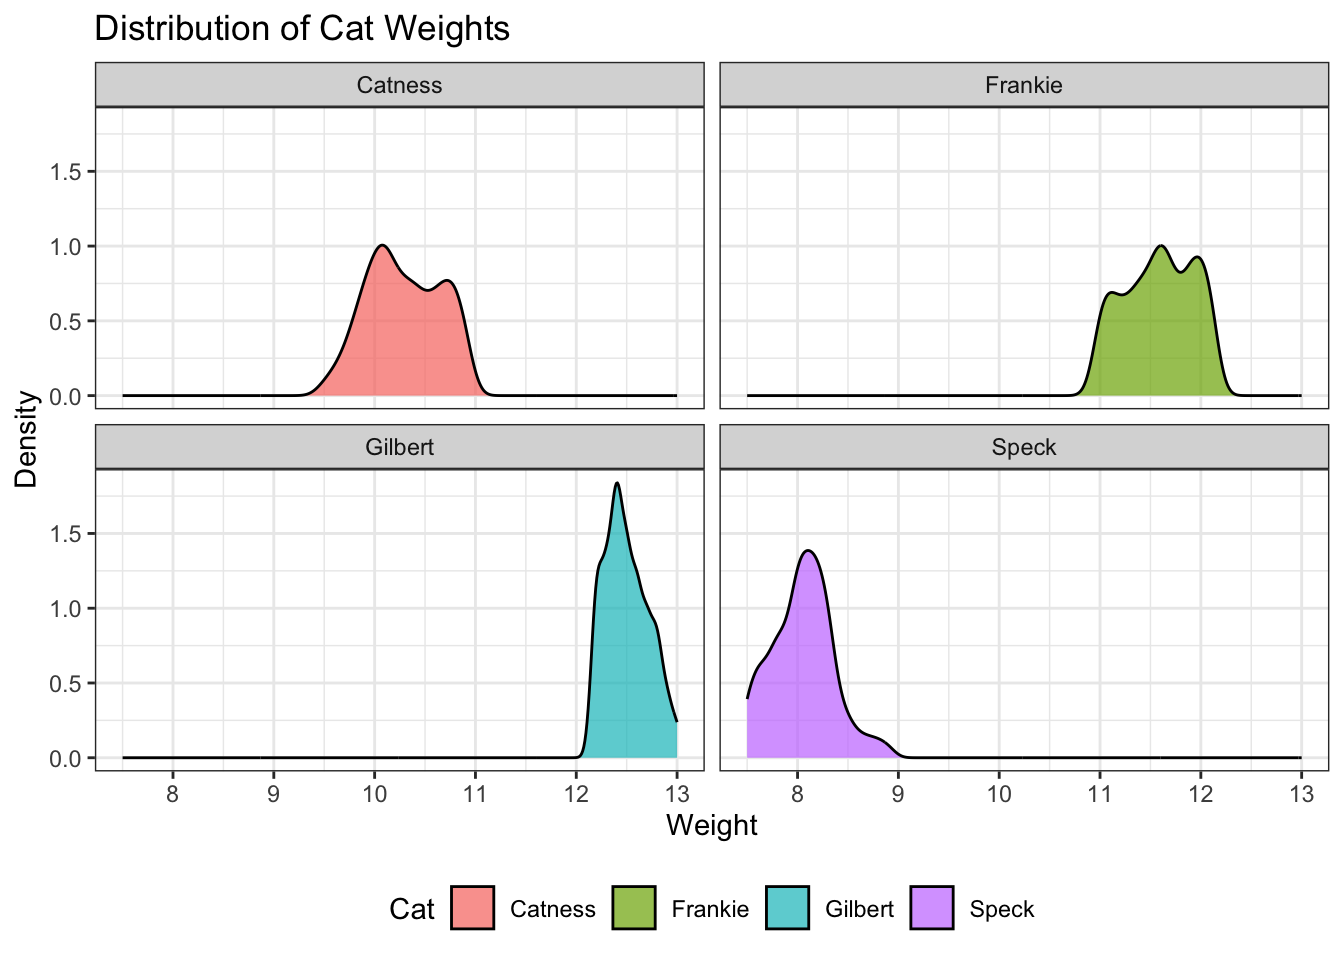
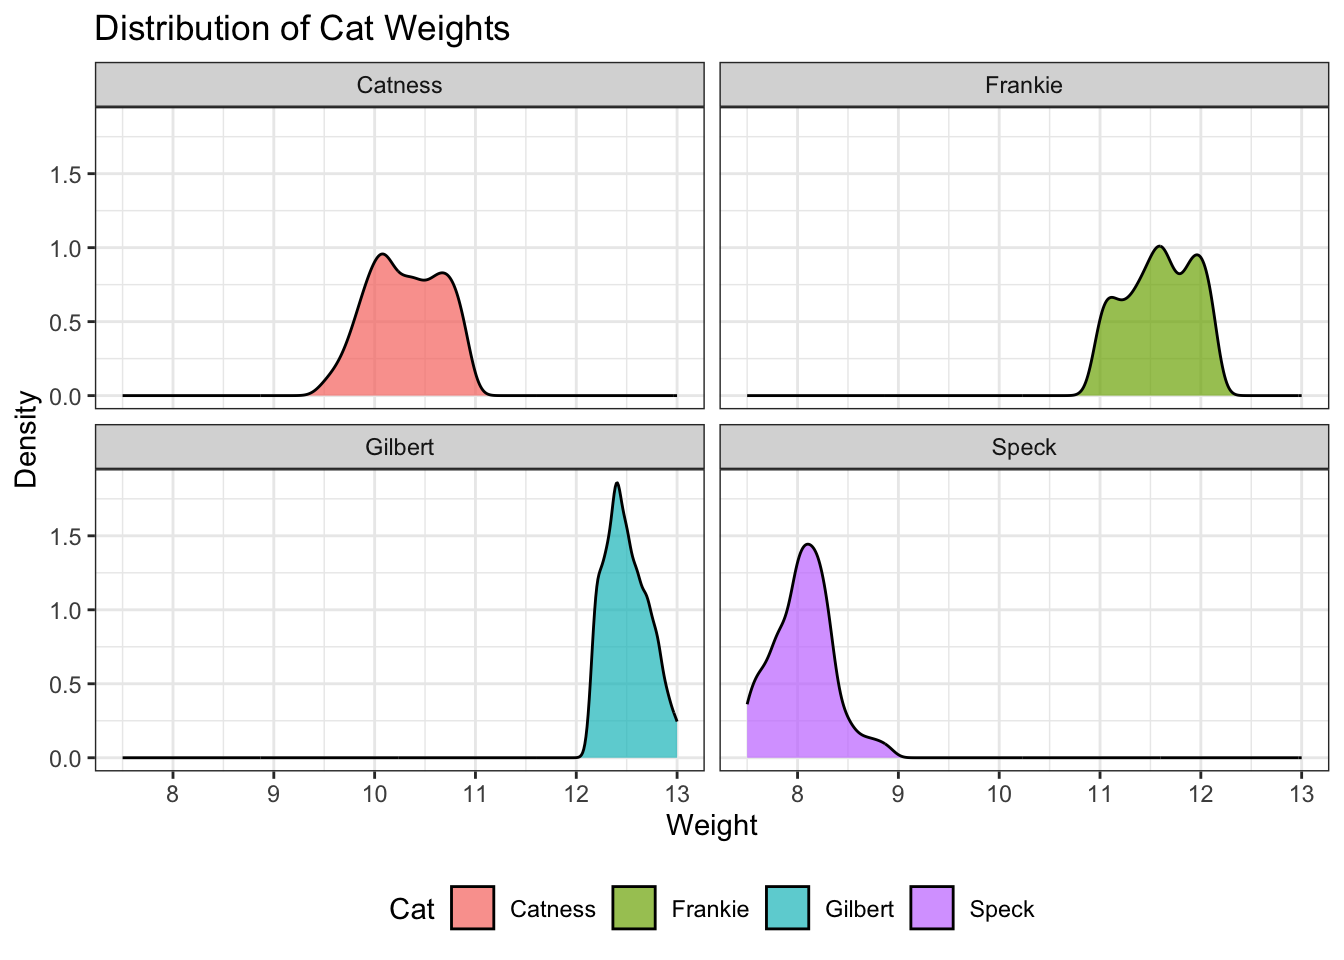
late May update

diff --git a/index.html b/index.html
@@ -228,8 +228,8 @@ Figure&nbsp;1
 <td style="text-align: right;">10.3</td>
 <td style="text-align: right;">10.3</td>
 <td style="text-align: right;">0.36</td>
-<td style="text-align: right;">0.00</td>
-<td style="text-align: right;">2.01</td>
+<td style="text-align: right;">-0.08</td>
+<td style="text-align: right;">2.03</td>
 </tr>
 <tr class="even">
 <td style="text-align: left;">Frankie</td>
@@ -238,8 +238,8 @@ Figure&nbsp;1
 <td style="text-align: right;">11.6</td>
 <td style="text-align: right;">11.6</td>
 <td style="text-align: right;">0.34</td>
-<td style="text-align: right;">-0.14</td>
-<td style="text-align: right;">1.88</td>
+<td style="text-align: right;">-0.16</td>
+<td style="text-align: right;">1.90</td>
 </tr>
 <tr class="odd">
 <td style="text-align: left;">Gilbert</td>
@@ -247,9 +247,9 @@ Figure&nbsp;1
 <td style="text-align: right;">13.0</td>
 <td style="text-align: right;">12.5</td>
 <td style="text-align: right;">12.5</td>
-<td style="text-align: right;">0.22</td>
+<td style="text-align: right;">0.21</td>
 <td style="text-align: right;">0.40</td>
-<td style="text-align: right;">2.28</td>
+<td style="text-align: right;">2.32</td>
 </tr>
 <tr class="even">
 <td style="text-align: left;">Speck</td>
@@ -257,9 +257,9 @@ Figure&nbsp;1
 <td style="text-align: right;">8.9</td>
 <td style="text-align: right;">8.1</td>
 <td style="text-align: right;">8.1</td>
-<td style="text-align: right;">0.30</td>
-<td style="text-align: right;">0.24</td>
-<td style="text-align: right;">2.97</td>
+<td style="text-align: right;">0.29</td>
+<td style="text-align: right;">0.25</td>
+<td style="text-align: right;">3.10</td>
 </tr>
 </tbody>
 </table>
@@ -280,23 +280,23 @@ Figure&nbsp;1
 <tbody>
 <tr class="odd">
 <td style="text-align: left;">Catness</td>
-<td style="text-align: right;">607</td>
-<td style="text-align: right;">23.3</td>
+<td style="text-align: right;">652</td>
+<td style="text-align: right;">22.5</td>
 </tr>
 <tr class="even">
 <td style="text-align: left;">Frankie</td>
-<td style="text-align: right;">532</td>
-<td style="text-align: right;">20.5</td>
+<td style="text-align: right;">554</td>
+<td style="text-align: right;">19.1</td>
 </tr>
 <tr class="odd">
 <td style="text-align: left;">Gilbert</td>
-<td style="text-align: right;">581</td>
-<td style="text-align: right;">22.3</td>
+<td style="text-align: right;">633</td>
+<td style="text-align: right;">21.8</td>
 </tr>
 <tr class="even">
 <td style="text-align: left;">Speck</td>
-<td style="text-align: right;">599</td>
-<td style="text-align: right;">23.0</td>
+<td style="text-align: right;">656</td>
+<td style="text-align: right;">22.6</td>
 </tr>
 </tbody>
 </table>

diff --git a/cleaner.py b/cleaner.py
@@ -12,7 +12,8 @@ class CatDataCleaner:
                 "litter_robot_6.csv",
                 "litter_robot_7.csv",
                 "litter_robot_8.csv",
-                "litter_robot_9.csv"
+                "litter_robot_9.csv",
+                "litter_robot_10.csv"
             ]
         else:
             self.input_files = input_files
